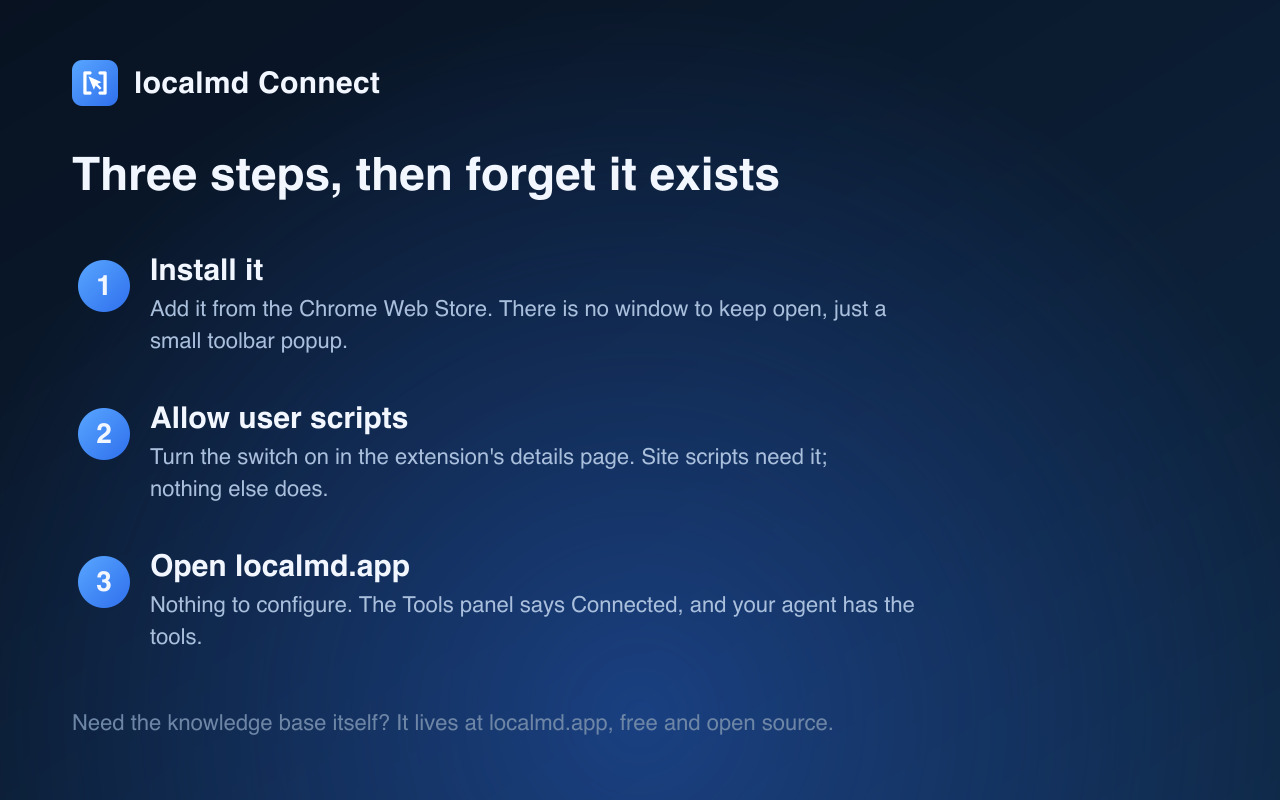
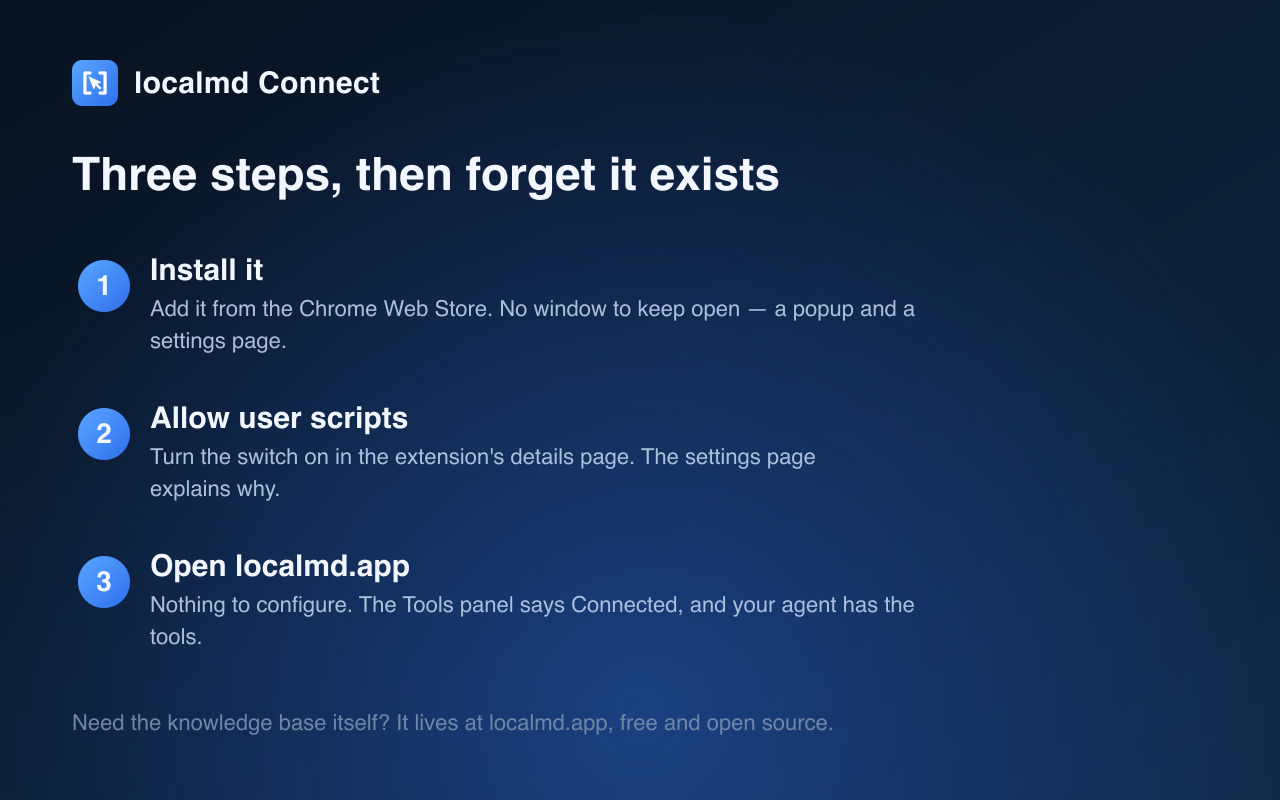
docs(localmd-connect): sweep the promo assets for the settings page too
The listing text was corrected with the rework; the SCREENSHOTS still said "no
window to keep open, just a small toolbar popup" and named the user-scripts
switch without saying anything points at why. Re-rendered and re-rastered — this
shell's step descriptions wrap, so unlike WebCLI's there was no width to clear.

§3 gains the row that would have caught it: the popup/settings row used to say
"nothing in the assets today", which reads as "nothing to check" and is why
three listing lines described site scripts as living in the popup, where they
have never been in this shell.

diff --git a/store/localmd-connect/promo.html b/store/localmd-connect/promo.html
@@ -340,7 +340,7 @@
       <path d="M78 36h14v56H78"/>
     </g>
     <path d="M0 0 L0 16 L3.7 12.4 L6.2 18.5 L8.6 17.5 L6.1 11.5 L11 11.5 Z" transform="translate(45.8 45.5) rotate(-22) scale(2.5)" fill="#fff"/>
-  </g><text x="134" y="93" font-family="-apple-system,'SF Pro Display','Segoe UI',Roboto,Helvetica,Arial,sans-serif" font-size="30" font-weight="700" fill="#F2F7FF" text-anchor="start" letter-spacing="0.3" opacity="1">localmd Connect</text><text x="72" y="190" font-family="-apple-system,'SF Pro Display','Segoe UI',Roboto,Helvetica,Arial,sans-serif" font-size="46" font-weight="700" fill="#F2F7FF" text-anchor="start" letter-spacing="0" opacity="1">Three steps, then forget it exists</text><circle cx="104" cy="286" r="26" fill="url(#brand)"/><text x="104" y="295" font-family="-apple-system,'SF Pro Display','Segoe UI',Roboto,Helvetica,Arial,sans-serif" font-size="28" font-weight="800" fill="#F2F7FF" text-anchor="middle" letter-spacing="0" opacity="1">1</text><text x="150" y="280" font-family="-apple-system,'SF Pro Display','Segoe UI',Roboto,Helvetica,Arial,sans-serif" font-size="30" font-weight="700" fill="#F2F7FF" text-anchor="start" letter-spacing="0" opacity="1">Install it</text><text x="150" y="316" font-family="-apple-system,'SF Pro Display','Segoe UI',Roboto,Helvetica,Arial,sans-serif" font-size="22" font-weight="400" fill="#A9BFDC" text-anchor="start" letter-spacing="0" opacity="1">Add it from the Chrome Web Store. There is no window to keep open, just a</text><text x="150" y="348" font-family="-apple-system,'SF Pro Display','Segoe UI',Roboto,Helvetica,Arial,sans-serif" font-size="22" font-weight="400" fill="#A9BFDC" text-anchor="start" letter-spacing="0" opacity="1">small toolbar popup.</text><circle cx="104" cy="434" r="26" fill="url(#brand)"/><text x="104" y="443" font-family="-apple-system,'SF Pro Display','Segoe UI',Roboto,Helvetica,Arial,sans-serif" font-size="28" font-weight="800" fill="#F2F7FF" text-anchor="middle" letter-spacing="0" opacity="1">2</text><text x="150" y="428" font-family="-apple-system,'SF Pro Display','Segoe UI',Roboto,Helvetica,Arial,sans-serif" font-size="30" font-weight="700" fill="#F2F7FF" text-anchor="start" letter-spacing="0" opacity="1">Allow user scripts</text><text x="150" y="464" font-family="-apple-system,'SF Pro Display','Segoe UI',Roboto,Helvetica,Arial,sans-serif" font-size="22" font-weight="400" fill="#A9BFDC" text-anchor="start" letter-spacing="0" opacity="1">Turn the switch on in the extension's details page. Site scripts need it;</text><text x="150" y="496" font-family="-apple-system,'SF Pro Display','Segoe UI',Roboto,Helvetica,Arial,sans-serif" font-size="22" font-weight="400" fill="#A9BFDC" text-anchor="start" letter-spacing="0" opacity="1">nothing else does.</text><circle cx="104" cy="582" r="26" fill="url(#brand)"/><text x="104" y="591" font-family="-apple-system,'SF Pro Display','Segoe UI',Roboto,Helvetica,Arial,sans-serif" font-size="28" font-weight="800" fill="#F2F7FF" text-anchor="middle" letter-spacing="0" opacity="1">3</text><text x="150" y="576" font-family="-apple-system,'SF Pro Display','Segoe UI',Roboto,Helvetica,Arial,sans-serif" font-size="30" font-weight="700" fill="#F2F7FF" text-anchor="start" letter-spacing="0" opacity="1">Open localmd.app</text><text x="150" y="612" font-family="-apple-system,'SF Pro Display','Segoe UI',Roboto,Helvetica,Arial,sans-serif" font-size="22" font-weight="400" fill="#A9BFDC" text-anchor="start" letter-spacing="0" opacity="1">Nothing to configure. The Tools panel says Connected, and your agent has the</text><text x="150" y="644" font-family="-apple-system,'SF Pro Display','Segoe UI',Roboto,Helvetica,Arial,sans-serif" font-size="22" font-weight="400" fill="#A9BFDC" text-anchor="start" letter-spacing="0" opacity="1">tools.</text><text x="72" y="730" font-family="-apple-system,'SF Pro Display','Segoe UI',Roboto,Helvetica,Arial,sans-serif" font-size="22" font-weight="400" fill="#6E86A6" text-anchor="start" letter-spacing="0" opacity="1">Need the knowledge base itself? It lives at localmd.app, free and open source.</text></svg></div>
+  </g><text x="134" y="93" font-family="-apple-system,'SF Pro Display','Segoe UI',Roboto,Helvetica,Arial,sans-serif" font-size="30" font-weight="700" fill="#F2F7FF" text-anchor="start" letter-spacing="0.3" opacity="1">localmd Connect</text><text x="72" y="190" font-family="-apple-system,'SF Pro Display','Segoe UI',Roboto,Helvetica,Arial,sans-serif" font-size="46" font-weight="700" fill="#F2F7FF" text-anchor="start" letter-spacing="0" opacity="1">Three steps, then forget it exists</text><circle cx="104" cy="286" r="26" fill="url(#brand)"/><text x="104" y="295" font-family="-apple-system,'SF Pro Display','Segoe UI',Roboto,Helvetica,Arial,sans-serif" font-size="28" font-weight="800" fill="#F2F7FF" text-anchor="middle" letter-spacing="0" opacity="1">1</text><text x="150" y="280" font-family="-apple-system,'SF Pro Display','Segoe UI',Roboto,Helvetica,Arial,sans-serif" font-size="30" font-weight="700" fill="#F2F7FF" text-anchor="start" letter-spacing="0" opacity="1">Install it</text><text x="150" y="316" font-family="-apple-system,'SF Pro Display','Segoe UI',Roboto,Helvetica,Arial,sans-serif" font-size="22" font-weight="400" fill="#A9BFDC" text-anchor="start" letter-spacing="0" opacity="1">Add it from the Chrome Web Store. No window to keep open — a popup and a</text><text x="150" y="348" font-family="-apple-system,'SF Pro Display','Segoe UI',Roboto,Helvetica,Arial,sans-serif" font-size="22" font-weight="400" fill="#A9BFDC" text-anchor="start" letter-spacing="0" opacity="1">settings page.</text><circle cx="104" cy="434" r="26" fill="url(#brand)"/><text x="104" y="443" font-family="-apple-system,'SF Pro Display','Segoe UI',Roboto,Helvetica,Arial,sans-serif" font-size="28" font-weight="800" fill="#F2F7FF" text-anchor="middle" letter-spacing="0" opacity="1">2</text><text x="150" y="428" font-family="-apple-system,'SF Pro Display','Segoe UI',Roboto,Helvetica,Arial,sans-serif" font-size="30" font-weight="700" fill="#F2F7FF" text-anchor="start" letter-spacing="0" opacity="1">Allow user scripts</text><text x="150" y="464" font-family="-apple-system,'SF Pro Display','Segoe UI',Roboto,Helvetica,Arial,sans-serif" font-size="22" font-weight="400" fill="#A9BFDC" text-anchor="start" letter-spacing="0" opacity="1">Turn the switch on in the extension's details page. The settings page</text><text x="150" y="496" font-family="-apple-system,'SF Pro Display','Segoe UI',Roboto,Helvetica,Arial,sans-serif" font-size="22" font-weight="400" fill="#A9BFDC" text-anchor="start" letter-spacing="0" opacity="1">explains why.</text><circle cx="104" cy="582" r="26" fill="url(#brand)"/><text x="104" y="591" font-family="-apple-system,'SF Pro Display','Segoe UI',Roboto,Helvetica,Arial,sans-serif" font-size="28" font-weight="800" fill="#F2F7FF" text-anchor="middle" letter-spacing="0" opacity="1">3</text><text x="150" y="576" font-family="-apple-system,'SF Pro Display','Segoe UI',Roboto,Helvetica,Arial,sans-serif" font-size="30" font-weight="700" fill="#F2F7FF" text-anchor="start" letter-spacing="0" opacity="1">Open localmd.app</text><text x="150" y="612" font-family="-apple-system,'SF Pro Display','Segoe UI',Roboto,Helvetica,Arial,sans-serif" font-size="22" font-weight="400" fill="#A9BFDC" text-anchor="start" letter-spacing="0" opacity="1">Nothing to configure. The Tools panel says Connected, and your agent has the</text><text x="150" y="644" font-family="-apple-system,'SF Pro Display','Segoe UI',Roboto,Helvetica,Arial,sans-serif" font-size="22" font-weight="400" fill="#A9BFDC" text-anchor="start" letter-spacing="0" opacity="1">tools.</text><text x="72" y="730" font-family="-apple-system,'SF Pro Display','Segoe UI',Roboto,Helvetica,Arial,sans-serif" font-size="22" font-weight="400" fill="#6E86A6" text-anchor="start" letter-spacing="0" opacity="1">Need the knowledge base itself? It lives at localmd.app, free and open source.</text></svg></div>
     </section>
 
     <section class="card">

diff --git a/docs/localmd-connect-releases.md b/docs/localmd-connect-releases.md
@@ -56,17 +56,17 @@ never allows one to be reused — not even after a rejected upload.
 Same shape as WebCLI's table, with this shell's specifics. `npm run check`
 catches code drift; nothing catches the rest.
 
-| Changed?                                          | Then update                                                                                                                                                            | Why it rots silently                                                                                                     |
-| ------------------------------------------------- | ---------------------------------------------------------------------------------------------------------------------------------------------------------------------- | ------------------------------------------------------------------------------------------------------------------------ |
-| always                                            | `manifest.localmd.json` → `version`                                                                                                                                    | the store rejects a reused version                                                                                       |
-| always                                            | `description` ≤132 chars and `name` ≤45 — both pinned by `tests/localmd-tool-surface.test.ts`                                                                          | the dashboard rejects the upload outright                                                                                |
-| always                                            | §5 below — a new entry, **PUBLISHED** only after the CRX check confirms it                                                                                             | WebCLI's log carried a PREPARED entry for a week after it went live, and a later decision was made on that false premise |
-| tool added / removed                              | `tests/localmd-tool-surface.test.ts` (count + membership), `store/localmd-connect/store-listing.md`, and `render.mjs` if a screenshot names it → re-render + re-raster | the screenshots are IMAGES; nothing type-checks them                                                                     |
-| the confirm contract (§7 of the architecture doc) | `store-listing.md`'s "YOU DECIDE, ALWAYS" block, and localmd's own UI — they are one promise made in two places                                                        | the listing is what a user reads before trusting it                                                                      |
-| adapter/site-script behavior                      | `LOCALMD_CONNECT_INSTRUCTIONS` in the SW, and the tool descriptions                                                                                                    | they ARE the interface for a shell with no agent of its own                                                              |
-| permissions                                       | the per-permission justification table in `store-listing.md`; expect a slow review on `userScripts` / `debugger`                                                       | a silent permission delta is the #1 review stall                                                                         |
-| the popup                                         | nothing in the assets today — no screenshot depicts it. If you add one, it will rot fastest                                                                            |
-| anything user-visible                             | `docs/localmd-connect.md` + `docs/tests/platform.md`                                                                                                                   | the next session starts from the docs                                                                                    |
+| Changed?                                          | Then update                                                                                                                                                                                                                                                                                                                                                                           | Why it rots silently                                                                                                     |
+| ------------------------------------------------- | ------------------------------------------------------------------------------------------------------------------------------------------------------------------------------------------------------------------------------------------------------------------------------------------------------------------------------------------------------------------------------------- | ------------------------------------------------------------------------------------------------------------------------ |
+| always                                            | `manifest.localmd.json` → `version`                                                                                                                                                                                                                                                                                                                                                   | the store rejects a reused version                                                                                       |
+| always                                            | `description` ≤132 chars and `name` ≤45 — both pinned by `tests/localmd-tool-surface.test.ts`                                                                                                                                                                                                                                                                                         | the dashboard rejects the upload outright                                                                                |
+| always                                            | §5 below — a new entry, **PUBLISHED** only after the CRX check confirms it                                                                                                                                                                                                                                                                                                            | WebCLI's log carried a PREPARED entry for a week after it went live, and a later decision was made on that false premise |
+| tool added / removed                              | `tests/localmd-tool-surface.test.ts` (count + membership), `store/localmd-connect/store-listing.md`, and `render.mjs` if a screenshot names it → re-render + re-raster                                                                                                                                                                                                                | the screenshots are IMAGES; nothing type-checks them                                                                     |
+| the confirm contract (§7 of the architecture doc) | `store-listing.md`'s "YOU DECIDE, ALWAYS" block, and localmd's own UI — they are one promise made in two places                                                                                                                                                                                                                                                                       | the listing is what a user reads before trusting it                                                                      |
+| adapter/site-script behavior                      | `LOCALMD_CONNECT_INSTRUCTIONS` in the SW, and the tool descriptions                                                                                                                                                                                                                                                                                                                   | they ARE the interface for a shell with no agent of its own                                                              |
+| permissions                                       | the per-permission justification table in `store-listing.md`; expect a slow review on `userScripts` / `debugger`                                                                                                                                                                                                                                                                      | a silent permission delta is the #1 review stall                                                                         |
+| the popup or the settings page                    | `store-listing.md` wherever it describes the surfaces — the "what you'll see" line, the `userScripts` justification, the site-script bullet — and `render.mjs`'s Get-started steps. **No screenshot depicts either page**; if you add one it will rot fastest. Added 2026-09-21, when three listing lines still said site scripts were listed "in the popup" and they have never been | nothing type-checks a listing, and the half a reviewer reads is the half worth auditing first                            |
+| anything user-visible                             | `docs/localmd-connect.md` + `docs/tests/platform.md`                                                                                                                                                                                                                                                                                                                                  | the next session starts from the docs                                                                                    |
 
 ## 4. Release checklist
 
